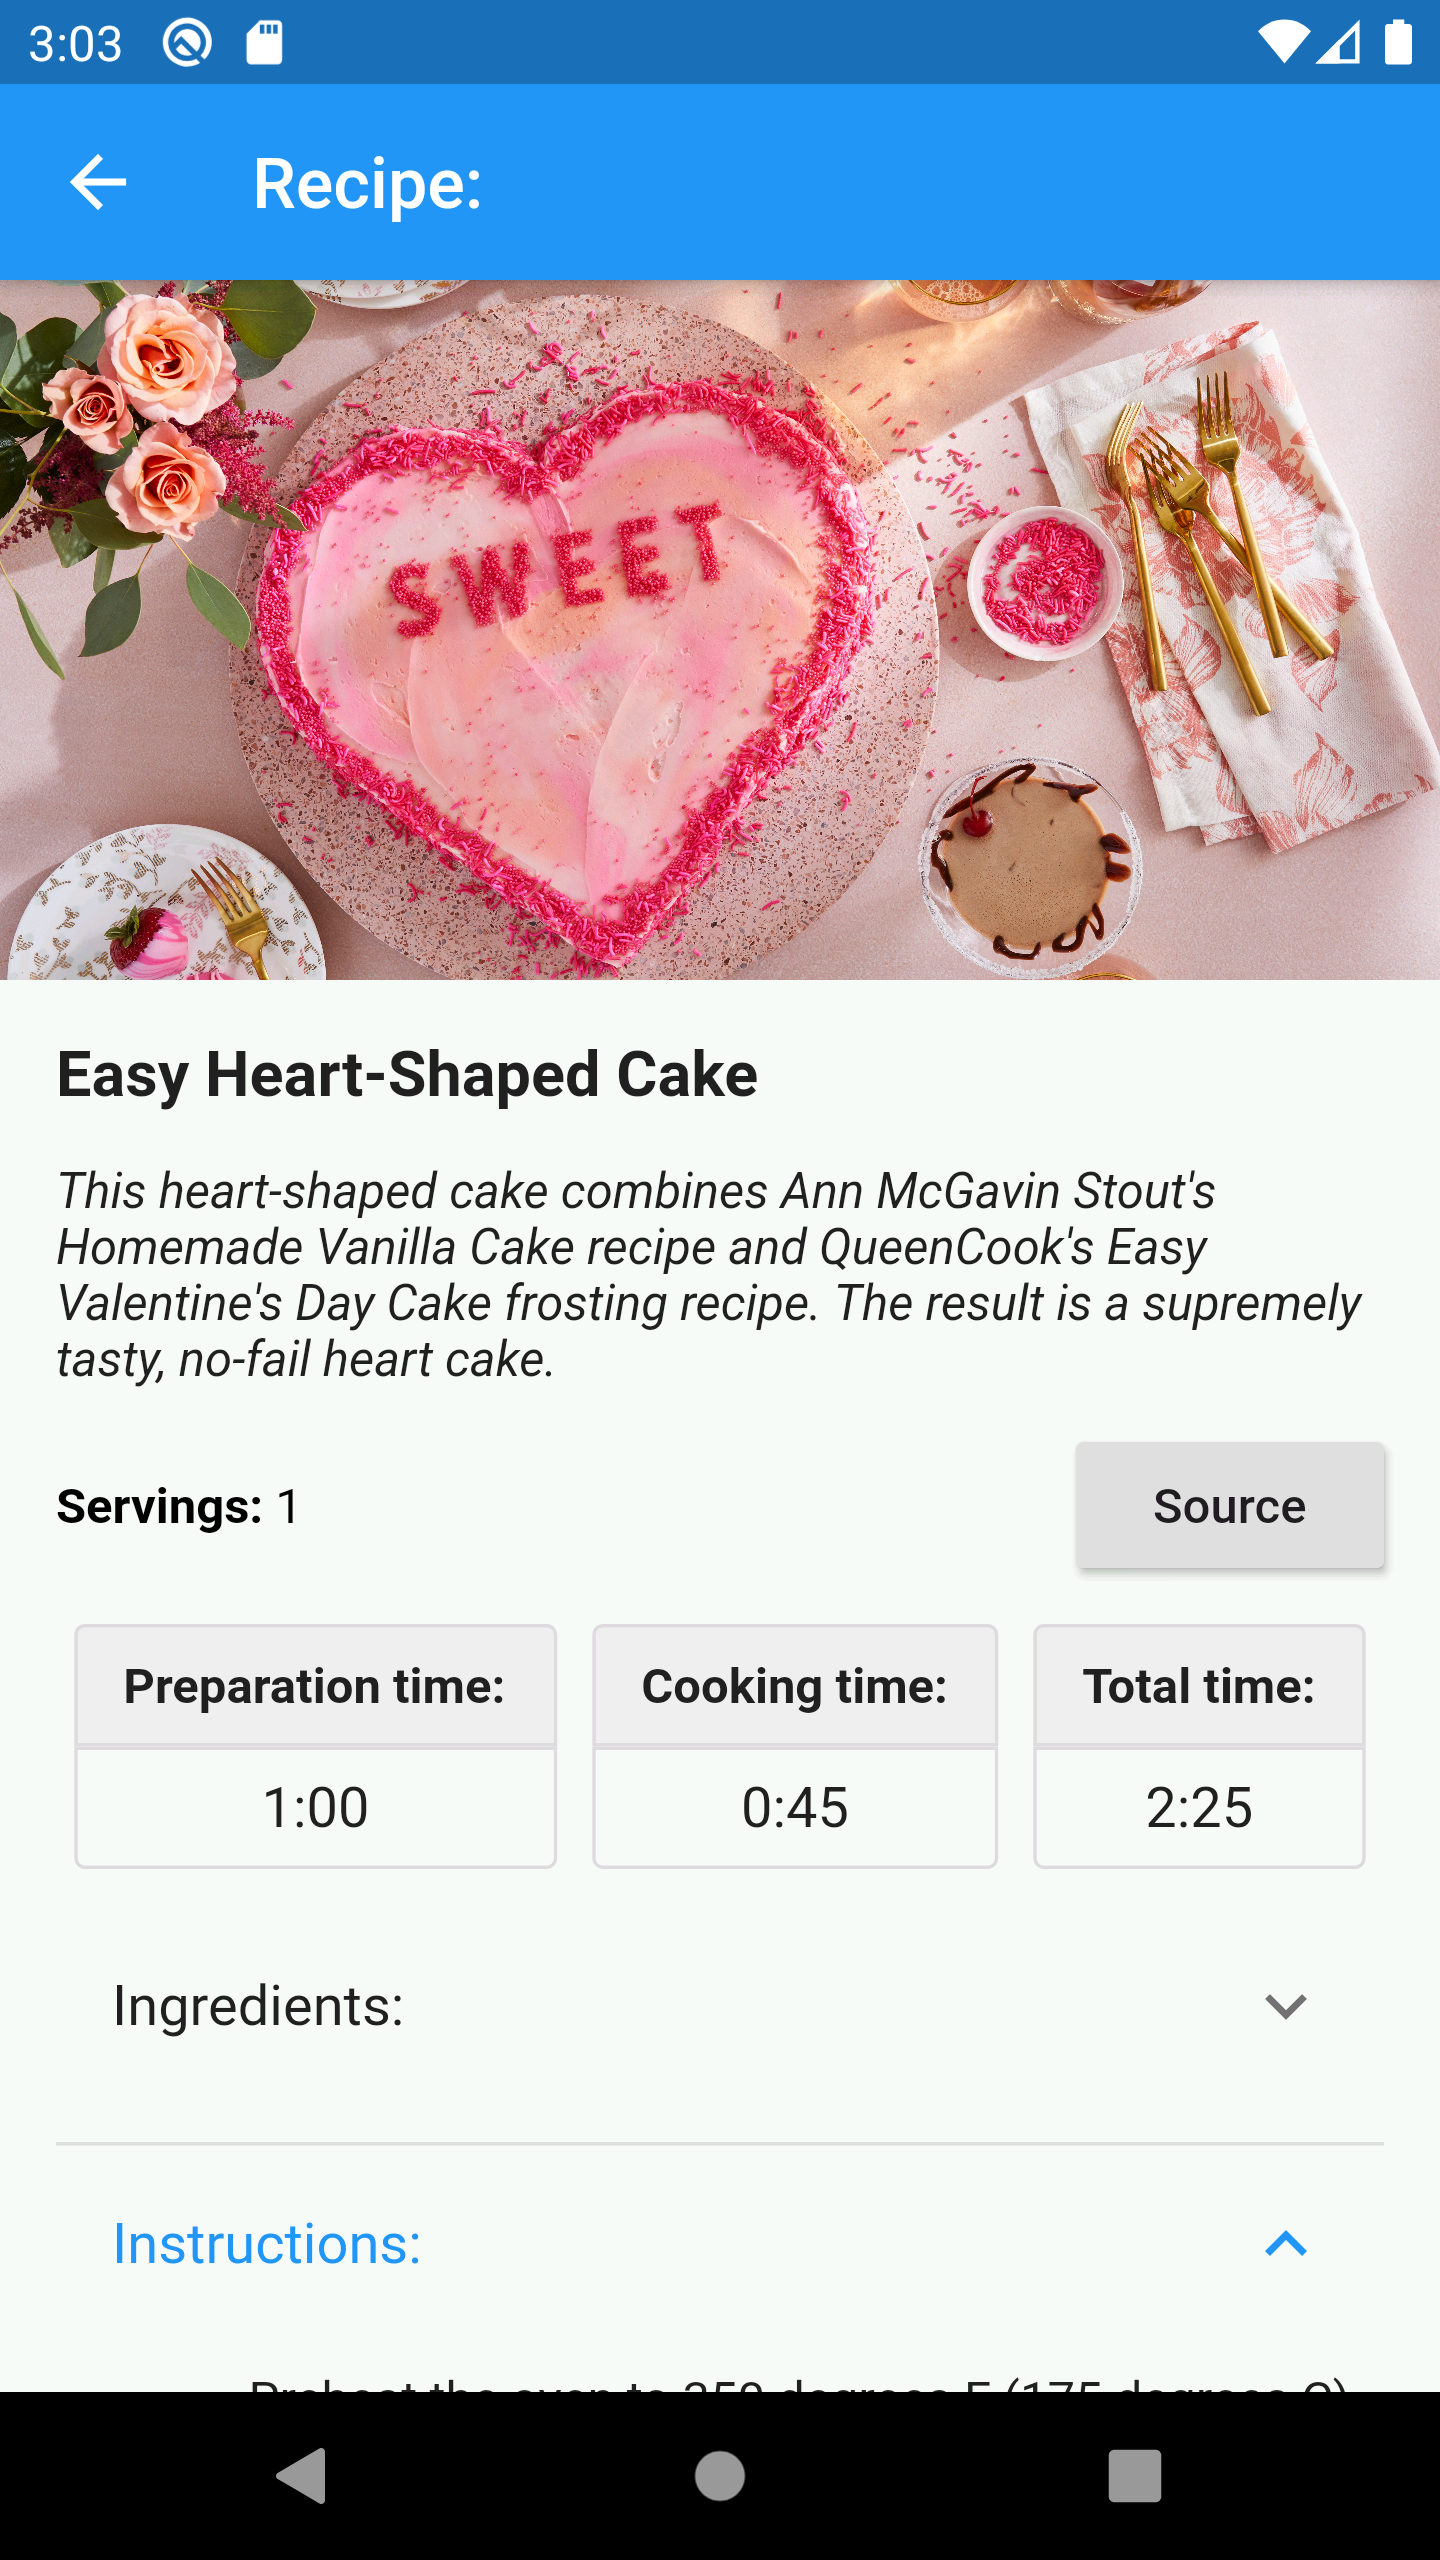
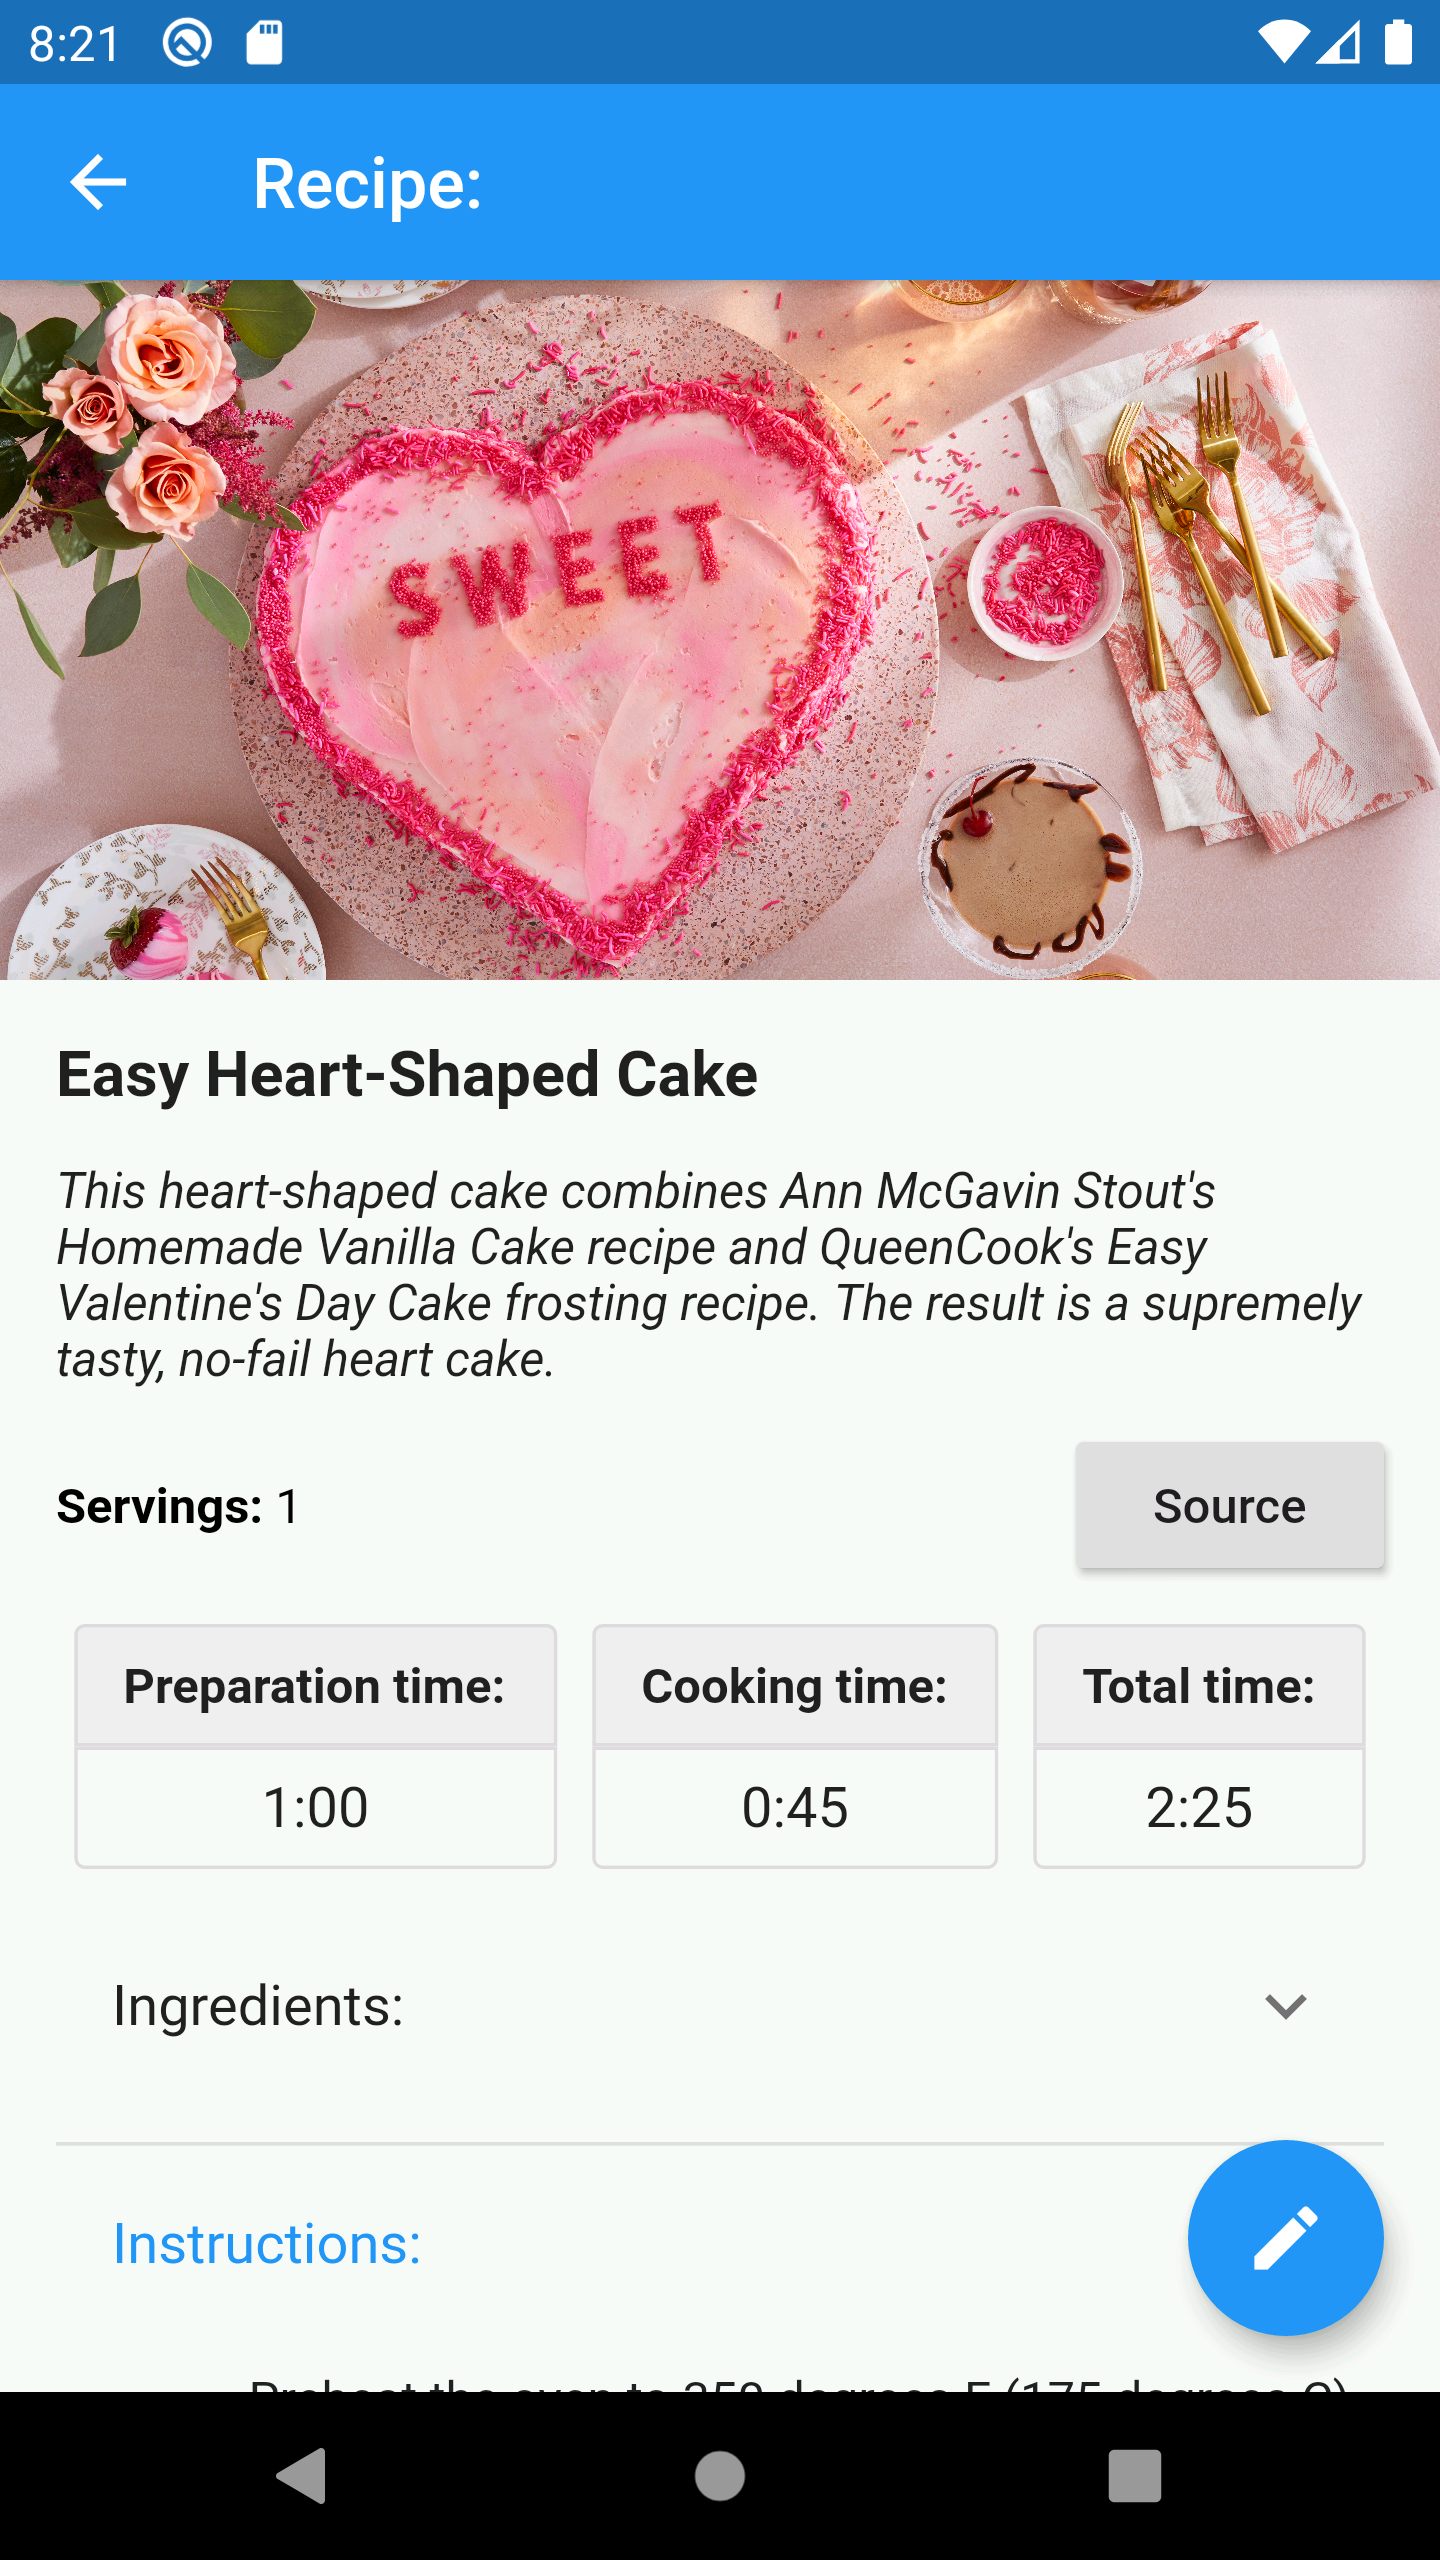
Release 0.4.0

Changed region(s): [[0.8125, 0.8125, 0.9688, 0.9375], [0.0312, 0.0, 0.0938, 0.0312]]

diff --git a/README.md b/README.md
@@ -15,10 +15,10 @@ It works best with an Nextcloud installation >= 19 and a Cookbook plugin version
 Current Features:
 - View all recipes by Category
 - Search Recipes by Name
+- Recipe Editing
 
 Planned Features:
-- Recipe Editing *
-- Recipe Creating
+- Recipe Creating *
 - Recipe Import
 - Darkmode
 - Offline Usage (Caching)
@@ -34,7 +34,8 @@ https://www.transifex.com/nextcloud/nextcloud/cookbook_flutter/
 
 <img src="https://user-images.githubusercontent.com/7461832/106359784-0c7e5100-6315-11eb-809b-975ad55dd3eb.png" alt="Login Screen" width="300px" /> <img src="https://user-images.githubusercontent.com/7461832/106359789-0e481480-6315-11eb-9631-c5d919dfe197.png" alt="Categories" width="300px" />
 <img src="https://user-images.githubusercontent.com/7461832/106359788-0daf7e00-6315-11eb-8604-7abbc541e344.png" alt="Search" width="300px" /> <img src="https://user-images.githubusercontent.com/7461832/106359787-0daf7e00-6315-11eb-88a4-b305b796d512.png" alt="Category Recipes" width="300px" />
-<img src="https://user-images.githubusercontent.com/7461832/106359786-0d16e780-6315-11eb-830a-3454551e3a07.png" alt="Recipe" width="300px" /> <img src="https://user-images.githubusercontent.com/7461832/106359785-0d16e780-6315-11eb-9099-0c33aa8943be.png" alt="Recipe Details" width="300px" /> 
+<img src="https://user-images.githubusercontent.com/7461832/106396792-8a705400-640a-11eb-9d81-8ca421a689f2.png" alt="Recipe" width="300px" /> <img src="https://user-images.githubusercontent.com/7461832/106359785-0d16e780-6315-11eb-9099-0c33aa8943be.png" alt="Recipe Details" width="300px" /> 
+<img src="https://user-images.githubusercontent.com/7461832/106396793-8c3a1780-640a-11eb-9324-7a9d26205814.png" alt="Recipe Edit 1" width="300px" /> <img src="https://user-images.githubusercontent.com/7461832/106396794-8c3a1780-640a-11eb-8d64-5eb4fc90faa9.png" alt="Recipe Edit 2" width="300px" /> 
 
 
   
